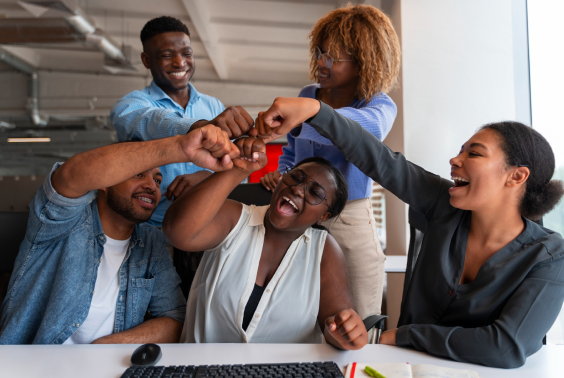
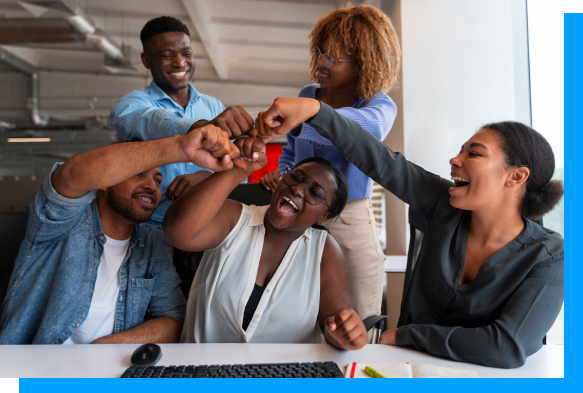
about section on home page done

diff --git a/src/components/WhoWeAre.jsx b/src/components/WhoWeAre.jsx
@@ -2,17 +2,28 @@ import whoAsset from "../assets/who-we-are.png"
 
 const WhoWeAre = () => {
   return (
-    <div>
-      <h1>Who We Are</h1>
+    <div className="section-about" id="about">
+      <div className="container wrapper">
+        <h1>Who We Are</h1>
+        <div className="col-1-2">
+          {/* about text */}
+          <div>
+            <h3>Lorem ipsum dolor sit amet.</h3>
+            <p>Lorem ipsum dolor sit amet consectetur adipisicing elit. Modi excepturi corporis sequi. Doloribus pariatur asperiores, delectus illo nesciunt vero numquam?</p>
+            <br />
+            <p>Lorem ipsum dolor sit, amet consectetur adipisicing elit. Expedita reprehenderit quia aspernatur quos nulla, voluptatem reiciendis. Quas saepe quaerat eum, commodi tempore dolor velit perferendis eos quia. Magnam ea, quos tempora accusantium ratione incidunt consectetur minima inventore doloribus itaque fugiat.</p>
+            <br />
+            <p>Lorem ipsum dolor sit amet consectetur adipisicing elit. Modi excepturi corporis sequi. Doloribus pariatur asperiores, delectus illo nesciunt vero numquam?</p>
+            <button className="btn btn-primary mt-20">About Us</button>
+          </div>
+          {/* about image */}
+          <div>
+            <img src={whoAsset} alt="" />
+          </div>
+
+        </div>
+      </div>
       <div>
-        <div>
-        <p>Lorem ipsum dolor sit amet consectetur adipisicing elit. Modi excepturi corporis sequi. Doloribus pariatur asperiores, delectus illo nesciunt vero numquam?</p>
-        <p>Lorem ipsum dolor sit amet consectetur adipisicing elit. Modi excepturi corporis sequi. Doloribus pariatur asperiores, delectus illo nesciunt vero numquam?</p>
-        <button>About Us</button>
-        </div>
-        <div>
-          <img src={whoAsset} alt="" />
-        </div>
       </div>
     </div>
   )

diff --git a/src/sass/abstract/_mixins.scss b/src/sass/abstract/_mixins.scss
@@ -37,3 +37,11 @@
 .mr-50 {
     margin-right: 5rem;
 }
+
+// margin-top
+.mt-20 {
+    margin-top: 2rem;
+}
+.mt-50 {
+    margin-top: 5rem;
+}
